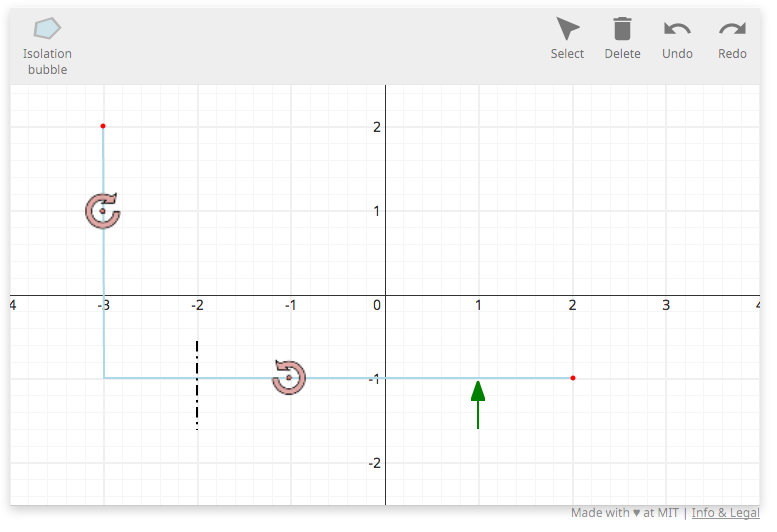
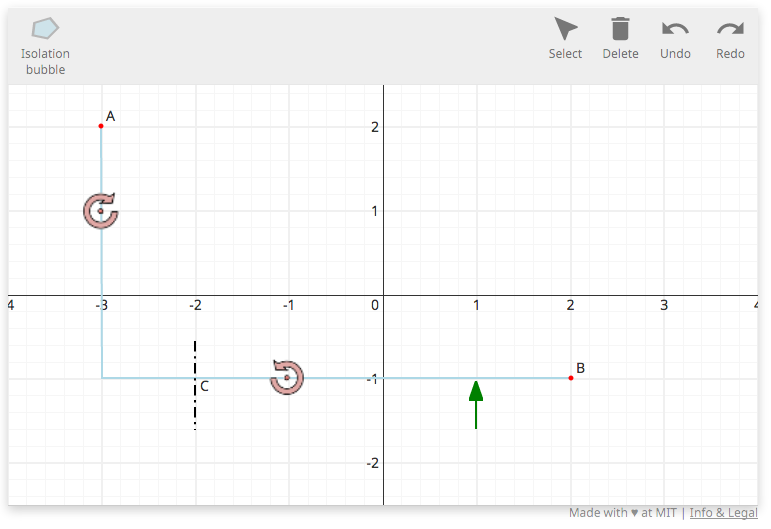
added tags to the physics grader. regened the initial state, and the screen shot. added the moment stamp images to the static directory.

diff --git a/grader_scripts/physics_grader.py b/grader_scripts/physics_grader.py
@@ -12,11 +12,11 @@ problemconfig = sketchresponse.config({
         {'name': 'axes'},
         {'name': 'polyline', 'id': 'pl', 'label': 'Beam', 'closed': False, 'color': 'lightblue', 'readonly': True},
         {'name': 'polyline', 'id': 'pg', 'label': 'Isolation bubble', 'closed': True, 'color': 'gray', 'fillColor': 'lightblue'},
-        {'name': 'point', 'id': 'pt', 'label': 'Point', 'color': 'red', 'size': 5, 'hollow': False, 'readonly': True},
+        {'name': 'point', 'id': 'pt', 'label': 'Point', 'color': 'red', 'size': 5, 'hollow': False, 'readonly': True, 'tag': {'value': 'tag', 'xoffset': 5, 'yoffset': -5, 'align': 'start'}},
         {'name': 'line-segment', 'id': 'ls', 'label': 'Force', 'color': 'green', 'dashStyle': 'solid', 'lengthContraint': 50, 'arrowHead': {'length': 10, 'base': 7}, 'readonly': True},
-        {'name': 'line-segment', 'id': 'c', 'label': 'Segment', 'color': 'black', 'dashStyle': 'dashdotted', 'lengthContraint': 20, 'readonly': True},
-        {'name': 'stamp', 'id': 'cwm', 'label': 'CWM', 'scale': 0.5, 'src': '/static/simona_stamps/cw_moment.png', 'readonly': True},
-        {'name': 'stamp', 'id': 'ccwm', 'label': 'CCWM', 'scale': 0.5, 'src': '/static/simona_stamps/ccw_moment.png', 'readonly': True}
+        {'name': 'line-segment', 'id': 'c', 'label': 'Segment', 'color': 'black', 'dashStyle': 'dashdotted', 'lengthContraint': 20, 'readonly': True, 'tag': {'value': 'tag', 'xoffset': 5, 'yoffset': 5, 'align': 'start', 'position': 'middle'}},
+        {'name': 'stamp', 'id': 'cwm', 'label': 'CWM', 'scale': 0.5, 'src': '/static/examples/cw_moment.png', 'readonly': True},
+        {'name': 'stamp', 'id': 'ccwm', 'label': 'CCWM', 'scale': 0.5, 'src': '/static/examples/ccw_moment.png', 'readonly': True}
     ],
     'initialstate': {
   "pl": [
@@ -39,11 +39,13 @@ problemconfig = sketchresponse.config({
   "pt": [
     {
       "y": 41,
-      "x": 93
+      "x": 93,
+      "tag": "A"
     },
     {
       "y": 293,
-      "x": 563
+      "x": 563,
+      "tag": "B"
     }
   ],
   "ls": [
@@ -58,12 +60,13 @@ problemconfig = sketchresponse.config({
   ],
   "c": [
     {
+      "y": 256,
       "x": 187,
-      "y": 256
+      "tag": "C"
     },
     {
-      "x": 187,
-      "y": 345
+      "y": 345,
+      "x": 187
     }
   ],
   "cwm": [

diff --git a/docs/physics_grader.md b/docs/physics_grader.md
@@ -59,6 +59,7 @@ The 'line-segment' plugin entry enables a drawing tool for line segments. In thi
 * `'lengthConstraint'` sets the maximum length of the segment in pixels.
 * `'readonly'` if True disables the plugin on the toolbar, but can still be used to draw initial state data.
 * `'arrowHead'` optionally sets the length and width of an arrowhead on one end of the line segment.
+* `'tag'` optionally enables a string label for each line segment drawn
 
 In this problem, we want to label clockwise and counter-clockwise moments in the initial state of the freebody diagram. To do this we can declare two instances of the 'stamp' plugin with different 'id' and 'label' values. The 'stamp' plugin has five configuration options to set:
 
@@ -69,6 +70,8 @@ In this problem, we want to label clockwise and counter-clockwise moments in the
 * `'readonly'` if True disables the plugin on the toolbar, but can still be used to draw initial state data.
 
 The final new feature introduced in this example is the `'initialstate'` configuration parameter. This parameter can be used to supply a set of data values to be drawn to the canvas automatically using any of the configured plugins. The data can be automatically generated using the [local testing server](local_test.md).
+
+This example uses the 'point' plugin, but introduces the 'tag' parameter, which can be optionally included with any plugin that draws to the canvas. It adds a string label to each point drawn.
 
 A listing of all the built-in plugins can be found at [SketchResponse Plugins](probconfig_plugins.md).
 
@@ -84,11 +87,11 @@ problemconfig = sketchresponse.config({
         {'name': 'axes'},
         {'name': 'polyline', 'id': 'pl', 'label': 'Beam', 'closed': False, 'color': 'lightblue', 'readonly': True},
         {'name': 'polyline', 'id': 'pg', 'label': 'Isolation bubble', 'closed': True, 'color': 'gray', 'fillColor': 'lightblue'},
-        {'name': 'point', 'id': 'pt', 'label': 'Point', 'color': 'red', 'size': 5, 'hollow': False, 'readonly': True},
+        {'name': 'point', 'id': 'pt', 'label': 'Point', 'color': 'red', 'size': 5, 'hollow': False, 'readonly': True, 'tag': {'value': 'tag', 'xoffset': 5, 'yoffset': -5, 'align': 'start'}},
         {'name': 'line-segment', 'id': 'ls', 'label': 'Force', 'color': 'green', 'dashStyle': 'solid', 'lengthContraint': 50, 'arrowHead': {'length': 10, 'base': 7}, 'readonly': True},
-        {'name': 'line-segment', 'id': 'c', 'label': 'Segment', 'color': 'black', 'dashStyle': 'dashdotted', 'lengthContraint': 20, 'readonly': True},
-        {'name': 'stamp', 'id': 'cwm', 'label': 'CWM', 'scale': 0.5, 'src': '/static/simona_stamps/cw_moment.png', 'readonly': True},
-        {'name': 'stamp', 'id': 'ccwm', 'label': 'CCWM', 'scale': 0.5, 'src': '/static/simona_stamps/ccw_moment.png', 'readonly': True}
+        {'name': 'line-segment', 'id': 'c', 'label': 'Segment', 'color': 'black', 'dashStyle': 'dashdotted', 'lengthContraint': 20, 'readonly': True, 'tag': {'value': 'tag', 'xoffset': 5, 'yoffset': 5, 'align': 'start', 'position': 'middle'}},
+        {'name': 'stamp', 'id': 'cwm', 'label': 'CWM', 'scale': 0.5, 'src': '/static/examples/cw_moment.png', 'readonly': True},
+        {'name': 'stamp', 'id': 'ccwm', 'label': 'CCWM', 'scale': 0.5, 'src': '/static/examples/ccw_moment.png', 'readonly': True}
     ],
     'initialstate': {
   "pl": [
@@ -111,11 +114,13 @@ problemconfig = sketchresponse.config({
   "pt": [
     {
       "y": 41,
-      "x": 93
+      "x": 93,
+      "tag": "A"
     },
     {
       "y": 293,
-      "x": 563
+      "x": 563,
+      "tag": "B"
     }
   ],
   "ls": [
@@ -130,12 +135,13 @@ problemconfig = sketchresponse.config({
   ],
   "c": [
     {
+      "y": 256,
       "x": 187,
-      "y": 256
+      "tag": "C"
     },
     {
-      "x": 187,
-      "y": 345
+      "y": 345,
+      "x": 187
     }
   ],
   "cwm": [
@@ -204,7 +210,7 @@ This first check verifies that there is only one isolation bubble drawn in the i
         return False, "Isolation bubble should only cut the horizontal beam once."
 ```
 
-There are two valid isolation bubbles that can be drawn for this problem. In both of them, the vertical beam should not be cut by the bubble and the horizontal beam should be cut at the point labeled with the vertical dashed line.
+There are two valid isolation bubbles that can be drawn for this problem. In both of them, the vertical beam should not be cut by the bubble and the horizontal beam should be cut at the point labeled C.
 
 ### Checking the beam points on the isolation bubble
 
@@ -216,7 +222,7 @@ There are two valid isolation bubbles that can be drawn for this problem. In bot
         return False, "Check the isolation bubble containment."
 ```
 
-The correct isolation bubbles will have the point on the horizontal beam marked by the vertical dashed line on the bubble. It will also have either the top endpoint of the vertical beam, or the right end point of the horizontal beam on its bubble.
+The correct isolation bubbles will have the point C on the horizontal beam on the boundary of the bubble. It will also have either the top endpoint of the vertical beam, A, or the right end point of the horizontal beam, B, on the bubble's boundary.
 
 ### All checks passed, so return True
 
@@ -225,7 +231,7 @@ The correct isolation bubbles will have the point on the horizontal beam marked 
 ```
 
 ### Putting it all together
-Combining all the code above into a single function gives us the following. You will notice that the error message variable `msg` is tested at multiple points during the evaluation and used as an early failure condition. If the numbers of expected labels are not correct, then future checks are likely to not be able to run on the data so returning early ensures the student gets good feedback.
+Combining all the code above into a single function gives us the following. You will notice that the error conditions are tested at multiple points during the evaluation and used as an early failure condition. If the numbers of expected bubbles is not correct, then future checks are likely to not be able to run on the data so returning early ensures the student gets meaningful feedback.
 
 ```python
 import sketchresponse
@@ -242,11 +248,11 @@ problemconfig = sketchresponse.config({
         {'name': 'axes'},
         {'name': 'polyline', 'id': 'pl', 'label': 'Beam', 'closed': False, 'color': 'lightblue', 'readonly': True},
         {'name': 'polyline', 'id': 'pg', 'label': 'Isolation bubble', 'closed': True, 'color': 'gray', 'fillColor': 'lightblue'},
-        {'name': 'point', 'id': 'pt', 'label': 'Point', 'color': 'red', 'size': 5, 'hollow': False, 'readonly': True},
+        {'name': 'point', 'id': 'pt', 'label': 'Point', 'color': 'red', 'size': 5, 'hollow': False, 'readonly': True, 'tag': {'value': 'tag', 'xoffset': 5, 'yoffset': -5, 'align': 'start'}},
         {'name': 'line-segment', 'id': 'ls', 'label': 'Force', 'color': 'green', 'dashStyle': 'solid', 'lengthContraint': 50, 'arrowHead': {'length': 10, 'base': 7}, 'readonly': True},
-        {'name': 'line-segment', 'id': 'c', 'label': 'Segment', 'color': 'black', 'dashStyle': 'dashdotted', 'lengthContraint': 20, 'readonly': True},
-        {'name': 'stamp', 'id': 'cwm', 'label': 'CWM', 'scale': 0.5, 'src': '/static/simona_stamps/cw_moment.png', 'readonly': True},
-        {'name': 'stamp', 'id': 'ccwm', 'label': 'CCWM', 'scale': 0.5, 'src': '/static/simona_stamps/ccw_moment.png', 'readonly': True}
+        {'name': 'line-segment', 'id': 'c', 'label': 'Segment', 'color': 'black', 'dashStyle': 'dashdotted', 'lengthContraint': 20, 'readonly': True, 'tag': {'value': 'tag', 'xoffset': 5, 'yoffset': 5, 'align': 'start', 'position': 'middle'}},
+        {'name': 'stamp', 'id': 'cwm', 'label': 'CWM', 'scale': 0.5, 'src': '/static/examples/cw_moment.png', 'readonly': True},
+        {'name': 'stamp', 'id': 'ccwm', 'label': 'CCWM', 'scale': 0.5, 'src': '/static/examples/ccw_moment.png', 'readonly': True}
     ],
     'initialstate': {
   "pl": [
@@ -269,11 +275,13 @@ problemconfig = sketchresponse.config({
   "pt": [
     {
       "y": 41,
-      "x": 93
+      "x": 93,
+      "tag": "A"
     },
     {
       "y": 293,
-      "x": 563
+      "x": 563,
+      "tag": "B"
     }
   ],
   "ls": [
@@ -288,12 +296,13 @@ problemconfig = sketchresponse.config({
   ],
   "c": [
     {
+      "y": 256,
       "x": 187,
-      "y": 256
+      "tag": "C"
     },
     {
-      "x": 187,
-      "y": 345
+      "y": 345,
+      "x": 187
     }
   ],
   "cwm": [

diff --git a/docs/probconfig_plugins.md b/docs/probconfig_plugins.md
@@ -136,7 +136,7 @@ front-end tool.
 * `'color': <a color string>` - the color key should be give a color string that
 javascript recognizes. A listing of color names can be found [here](http://www.w3schools.com/colors/colors_names.asp).
 
-It also has an optional parameter:
+It also has optional parameters:
 
 * `'tag': <object>` - the tag key must be an object containing the following keys:
   * `'value': <string>` - the intial value of the tag when the data is drawn on the canvas.
